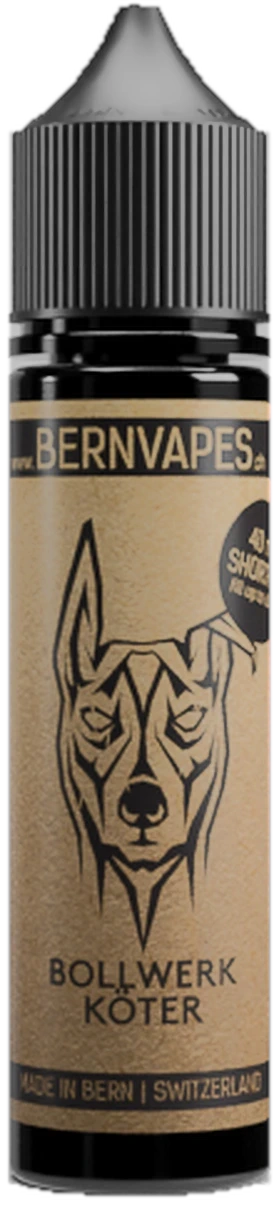
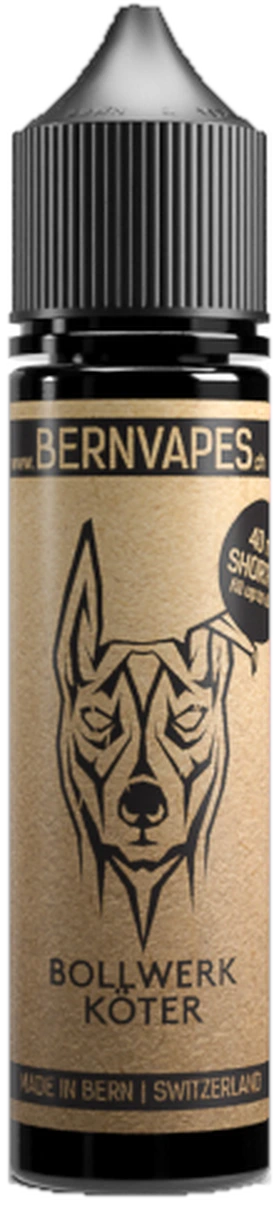
Flaschen: Original-Produktbilder (d6e7b87, ungematt) für alle 28; Quartier+Bärgtier weicher Schatten statt Matt-/Kontrastfilter, Schimmer aus; Cache-Buster ?v=20261027b

diff --git a/index.html b/index.html
@@ -110,7 +110,7 @@
       <p>Sibe Sorte, benannt nach Bärner Quartier. Vier dervo gits o on the rocks — schalt uf Winter. U nid hüle, wes chaut wird.</p>
     </div>
     <div class="beasts">
-      <figure class="beast grp bot" style="--i:0;left:9%;bottom:9%;--w:5.9%;--d:.8;--delay:0s" data-season="s"><div class="duo"><div class="bottle3" style="--mask:url('assets/web/produkte/monbijou_marder_60ml.webp');--bar:0.231"><img class="base" src="assets/web/produkte/monbijou_marder_60ml.webp" alt=""><i class="shine"></i></div></div><div class="ings"><img src="assets/web/ingredients/schokolade_orange.webp" alt=""></div><div class="plaque"><div class="flavor">Monbijou Marder</div><div class="who">Zartbitter · Orange · garantiert kalorieefrei</div></div></figure><figure class="beast grp bot" style="--i:1;left:36%;bottom:10%;--w:5.9%;--d:.8;--delay:-2s" data-season="s"><div class="duo"><div class="bottle3" style="--mask:url('assets/web/produkte/breitschplatz_hirsch_60ml.webp');--bar:0.231"><img class="base" src="assets/web/produkte/breitschplatz_hirsch_60ml.webp" alt=""><i class="shine"></i></div></div><div class="ings"><img src="assets/web/ingredients/apfel.webp" alt=""><img src="assets/web/ingredients/pistazie.webp" alt=""></div><div class="plaque"><div class="flavor">Breitsch Hirsch</div><div class="who">Öpfu · Pistache</div></div></figure><figure class="beast grp bot" style="--i:2;left:50%;bottom:6%;--w:6.3%;--d:1;--delay:-3s" data-season="s"><div class="duo"><div class="bottle3" style="--mask:url('assets/web/produkte/matte_eule_60ml.webp');--bar:0.231"><img class="base" src="assets/web/produkte/matte_eule_60ml.webp" alt=""><i class="shine"></i></div></div><div class="ings"><img src="assets/web/ingredients/ingwer.webp" alt=""><img src="assets/web/ingredients/mandarine.webp" alt=""></div><div class="plaque"><div class="flavor">Matte Eule</div><div class="who">Ingwer · Mandarine · Party</div></div></figure><figure class="beast grp bot" style="--i:3;left:64%;bottom:10%;--w:5.9%;--d:.8;--delay:-4s" data-season="s"><div class="duo"><div class="bottle3" style="--mask:url('assets/web/produkte/laengass_dachs_60ml.webp');--bar:0.231"><img class="base" src="assets/web/produkte/laengass_dachs_60ml.webp" alt=""><i class="shine"></i></div></div><div class="ings"><img src="assets/web/ingredients/saure_mango.webp" alt=""><img src="assets/web/ingredients/mango.webp" alt=""></div><div class="plaque"><div class="flavor">Länggass Dachs</div><div class="who">Suuri Mango · Holunder</div></div></figure><figure class="beast grp bot" style="--i:4;left:91%;bottom:9%;--w:5.9%;--d:.8;--delay:-6s" data-season="s"><div class="duo"><div class="bottle3" style="--mask:url('assets/web/produkte/wyler_falke_60ml.webp');--bar:0.231"><img class="base" src="assets/web/produkte/wyler_falke_60ml.webp" alt=""><i class="shine"></i></div></div><div class="ings"><img src="assets/web/ingredients/jasmin.webp" alt=""><img src="assets/web/ingredients/gruentee.webp" alt=""></div><div class="plaque"><div class="flavor">Wyler Falke</div><div class="who">Jasmin · Schwarztee · hate it or love it</div></div></figure><figure class="beast grp bot" style="--i:5;left:22.5%;bottom:6%;--w:6.3%;--d:1;--delay:-1s" data-season="s"><div class="duo"><div class="bottle3" style="--mask:url('assets/web/produkte/schanzen_kater_60ml.webp');--bar:0.231"><img class="base" src="assets/web/produkte/schanzen_kater_60ml.webp" alt=""><i class="shine"></i></div></div><div class="ings"><img src="assets/web/ingredients/kaffee.webp" alt=""><img src="assets/web/ingredients/amaretto.webp" alt=""></div><div class="plaque"><div class="flavor">Schanzen Kater</div><div class="who">Kaffi · Amaretto · fürs Morge drnah</div></div></figure><figure class="beast grp bot" style="--i:6;left:77.5%;bottom:6%;--w:6.3%;--d:1;--delay:-5s" data-season="s"><div class="duo"><div class="bottle3" style="--mask:url('assets/web/produkte/bollwerk_koeter_60ml.webp');--bar:0.231"><img class="base" src="assets/web/produkte/bollwerk_koeter_60ml.webp" alt=""><i class="shine"></i></div></div><div class="ings"><img src="assets/web/ingredients/tabak.webp" alt=""><img src="assets/web/ingredients/feige.webp" alt=""></div><div class="plaque"><div class="flavor">Bollwerk Köter</div><div class="who">Tubak · Fyge · für langi Nächt</div></div></figure><figure class="beast grp bot" style="--i:0;left:20%;bottom:6%;--w:7%;--d:1.1;--delay:0s" data-season="w"><div class="duo"><div class="bottle3" style="--mask:url('assets/web/produkte/breitschplatz_hirsch_otr_60ml.webp');--bar:0.231"><img class="base" src="assets/web/produkte/breitschplatz_hirsch_otr_60ml.webp" alt=""><i class="shine"></i></div></div><div class="ings"><img src="assets/web/ingredients/eis.webp" alt=""><img src="assets/web/ingredients/apfel.webp" alt=""></div><div class="plaque"><div class="flavor">Breitsch Hirsch · uf Ys</div><div class="who">Öpfu · Pistache · Koolada</div></div></figure><figure class="beast grp bot" style="--i:1;left:40%;bottom:6%;--w:7%;--d:1.1;--delay:-1.5s" data-season="w"><div class="duo"><div class="bottle3" style="--mask:url('assets/web/produkte/matte_eule_otr_60ml.webp');--bar:0.231"><img class="base" src="assets/web/produkte/matte_eule_otr_60ml.webp" alt=""><i class="shine"></i></div></div><div class="ings"><img src="assets/web/ingredients/eis.webp" alt=""><img src="assets/web/ingredients/mandarine.webp" alt=""></div><div class="plaque"><div class="flavor">Matte Eule · uf Ys</div><div class="who">Ingwer · Mandarine · Koolada</div></div></figure><figure class="beast grp bot" style="--i:2;left:60%;bottom:6%;--w:7%;--d:1.1;--delay:-3s" data-season="w"><div class="duo"><div class="bottle3" style="--mask:url('assets/web/produkte/laengass_dachs_otr_60ml.webp');--bar:0.231"><img class="base" src="assets/web/produkte/laengass_dachs_otr_60ml.webp" alt=""><i class="shine"></i></div></div><div class="ings"><img src="assets/web/ingredients/eis.webp" alt=""><img src="assets/web/ingredients/saure_mango.webp" alt=""></div><div class="plaque"><div class="flavor">Länggass Dachs · uf Ys</div><div class="who">Suuri Mango · Holunder · Koolada</div></div></figure><figure class="beast grp bot" style="--i:3;left:80%;bottom:6%;--w:7%;--d:1.1;--delay:-4.5s" data-season="w"><div class="duo"><div class="bottle3" style="--mask:url('assets/web/produkte/wyler_falke_otr_60ml.webp');--bar:0.231"><img class="base" src="assets/web/produkte/wyler_falke_otr_60ml.webp" alt=""><i class="shine"></i></div></div><div class="ings"><img src="assets/web/ingredients/eis.webp" alt=""><img src="assets/web/ingredients/jasmin.webp" alt=""></div><div class="plaque"><div class="flavor">Wyler Falke · uf Ys</div><div class="who">Jasmin · Schwarztee · Koolada</div></div></figure>
+      <figure class="beast grp bot" style="--i:0;left:9%;bottom:9%;--w:5.9%;--d:.8;--delay:0s" data-season="s"><div class="duo"><div class="bottle3" style="--mask:url('assets/web/produkte/monbijou_marder_60ml.webp?v=20261027b');--bar:0.231"><img class="base" src="assets/web/produkte/monbijou_marder_60ml.webp?v=20261027b" alt=""><i class="shine"></i></div></div><div class="ings"><img src="assets/web/ingredients/schokolade_orange.webp" alt=""></div><div class="plaque"><div class="flavor">Monbijou Marder</div><div class="who">Zartbitter · Orange · garantiert kalorieefrei</div></div></figure><figure class="beast grp bot" style="--i:1;left:36%;bottom:10%;--w:5.9%;--d:.8;--delay:-2s" data-season="s"><div class="duo"><div class="bottle3" style="--mask:url('assets/web/produkte/breitschplatz_hirsch_60ml.webp?v=20261027b');--bar:0.231"><img class="base" src="assets/web/produkte/breitschplatz_hirsch_60ml.webp?v=20261027b" alt=""><i class="shine"></i></div></div><div class="ings"><img src="assets/web/ingredients/apfel.webp" alt=""><img src="assets/web/ingredients/pistazie.webp" alt=""></div><div class="plaque"><div class="flavor">Breitsch Hirsch</div><div class="who">Öpfu · Pistache</div></div></figure><figure class="beast grp bot" style="--i:2;left:50%;bottom:6%;--w:6.3%;--d:1;--delay:-3s" data-season="s"><div class="duo"><div class="bottle3" style="--mask:url('assets/web/produkte/matte_eule_60ml.webp?v=20261027b');--bar:0.231"><img class="base" src="assets/web/produkte/matte_eule_60ml.webp?v=20261027b" alt=""><i class="shine"></i></div></div><div class="ings"><img src="assets/web/ingredients/ingwer.webp" alt=""><img src="assets/web/ingredients/mandarine.webp" alt=""></div><div class="plaque"><div class="flavor">Matte Eule</div><div class="who">Ingwer · Mandarine · Party</div></div></figure><figure class="beast grp bot" style="--i:3;left:64%;bottom:10%;--w:5.9%;--d:.8;--delay:-4s" data-season="s"><div class="duo"><div class="bottle3" style="--mask:url('assets/web/produkte/laengass_dachs_60ml.webp?v=20261027b');--bar:0.231"><img class="base" src="assets/web/produkte/laengass_dachs_60ml.webp?v=20261027b" alt=""><i class="shine"></i></div></div><div class="ings"><img src="assets/web/ingredients/saure_mango.webp" alt=""><img src="assets/web/ingredients/mango.webp" alt=""></div><div class="plaque"><div class="flavor">Länggass Dachs</div><div class="who">Suuri Mango · Holunder</div></div></figure><figure class="beast grp bot" style="--i:4;left:91%;bottom:9%;--w:5.9%;--d:.8;--delay:-6s" data-season="s"><div class="duo"><div class="bottle3" style="--mask:url('assets/web/produkte/wyler_falke_60ml.webp?v=20261027b');--bar:0.231"><img class="base" src="assets/web/produkte/wyler_falke_60ml.webp?v=20261027b" alt=""><i class="shine"></i></div></div><div class="ings"><img src="assets/web/ingredients/jasmin.webp" alt=""><img src="assets/web/ingredients/gruentee.webp" alt=""></div><div class="plaque"><div class="flavor">Wyler Falke</div><div class="who">Jasmin · Schwarztee · hate it or love it</div></div></figure><figure class="beast grp bot" style="--i:5;left:22.5%;bottom:6%;--w:6.3%;--d:1;--delay:-1s" data-season="s"><div class="duo"><div class="bottle3" style="--mask:url('assets/web/produkte/schanzen_kater_60ml.webp?v=20261027b');--bar:0.231"><img class="base" src="assets/web/produkte/schanzen_kater_60ml.webp?v=20261027b" alt=""><i class="shine"></i></div></div><div class="ings"><img src="assets/web/ingredients/kaffee.webp" alt=""><img src="assets/web/ingredients/amaretto.webp" alt=""></div><div class="plaque"><div class="flavor">Schanzen Kater</div><div class="who">Kaffi · Amaretto · fürs Morge drnah</div></div></figure><figure class="beast grp bot" style="--i:6;left:77.5%;bottom:6%;--w:6.3%;--d:1;--delay:-5s" data-season="s"><div class="duo"><div class="bottle3" style="--mask:url('assets/web/produkte/bollwerk_koeter_60ml.webp?v=20261027b');--bar:0.231"><img class="base" src="assets/web/produkte/bollwerk_koeter_60ml.webp?v=20261027b" alt=""><i class="shine"></i></div></div><div class="ings"><img src="assets/web/ingredients/tabak.webp" alt=""><img src="assets/web/ingredients/feige.webp" alt=""></div><div class="plaque"><div class="flavor">Bollwerk Köter</div><div class="who">Tubak · Fyge · für langi Nächt</div></div></figure><figure class="beast grp bot" style="--i:0;left:20%;bottom:6%;--w:7%;--d:1.1;--delay:0s" data-season="w"><div class="duo"><div class="bottle3" style="--mask:url('assets/web/produkte/breitschplatz_hirsch_otr_60ml.webp?v=20261027b');--bar:0.231"><img class="base" src="assets/web/produkte/breitschplatz_hirsch_otr_60ml.webp?v=20261027b" alt=""><i class="shine"></i></div></div><div class="ings"><img src="assets/web/ingredients/eis.webp" alt=""><img src="assets/web/ingredients/apfel.webp" alt=""></div><div class="plaque"><div class="flavor">Breitsch Hirsch · uf Ys</div><div class="who">Öpfu · Pistache · Koolada</div></div></figure><figure class="beast grp bot" style="--i:1;left:40%;bottom:6%;--w:7%;--d:1.1;--delay:-1.5s" data-season="w"><div class="duo"><div class="bottle3" style="--mask:url('assets/web/produkte/matte_eule_otr_60ml.webp?v=20261027b');--bar:0.231"><img class="base" src="assets/web/produkte/matte_eule_otr_60ml.webp?v=20261027b" alt=""><i class="shine"></i></div></div><div class="ings"><img src="assets/web/ingredients/eis.webp" alt=""><img src="assets/web/ingredients/mandarine.webp" alt=""></div><div class="plaque"><div class="flavor">Matte Eule · uf Ys</div><div class="who">Ingwer · Mandarine · Koolada</div></div></figure><figure class="beast grp bot" style="--i:2;left:60%;bottom:6%;--w:7%;--d:1.1;--delay:-3s" data-season="w"><div class="duo"><div class="bottle3" style="--mask:url('assets/web/produkte/laengass_dachs_otr_60ml.webp?v=20261027b');--bar:0.231"><img class="base" src="assets/web/produkte/laengass_dachs_otr_60ml.webp?v=20261027b" alt=""><i class="shine"></i></div></div><div class="ings"><img src="assets/web/ingredients/eis.webp" alt=""><img src="assets/web/ingredients/saure_mango.webp" alt=""></div><div class="plaque"><div class="flavor">Länggass Dachs · uf Ys</div><div class="who">Suuri Mango · Holunder · Koolada</div></div></figure><figure class="beast grp bot" style="--i:3;left:80%;bottom:6%;--w:7%;--d:1.1;--delay:-4.5s" data-season="w"><div class="duo"><div class="bottle3" style="--mask:url('assets/web/produkte/wyler_falke_otr_60ml.webp?v=20261027b');--bar:0.231"><img class="base" src="assets/web/produkte/wyler_falke_otr_60ml.webp?v=20261027b" alt=""><i class="shine"></i></div></div><div class="ings"><img src="assets/web/ingredients/eis.webp" alt=""><img src="assets/web/ingredients/jasmin.webp" alt=""></div><div class="plaque"><div class="flavor">Wyler Falke · uf Ys</div><div class="who">Jasmin · Schwarztee · Koolada</div></div></figure>
     </div>
     <button class="toggle" type="button" aria-pressed="false"><span>Summer</span><i></i><b>On the rocks</b></button>
   </div>
@@ -135,7 +135,7 @@
       <p>100 ml, Schwyzer Zuetate, nün Tier am Bärg. Je höcher, desto wiuder. Drü dervo chaut wie dr Gipfu säuber — schalt uf Winter.</p>
     </div>
     <div class="beasts">
-      <figure data-key="gipfel_adler_otr_100ml" class="beast grp bot" style="--i:0;--w:4.4%;--d:0.95;--delay:0s" data-ix="34" data-iy="58" data-season="w"><div class="duo"><div class="bottle3" style="--mask:url('assets/web/produkte/gipfel_adler_otr_100ml.webp');--bar:0.325"><img class="base" src="assets/web/produkte/gipfel_adler_otr_100ml.webp" alt=""><i class="shine"></i></div></div><div class="ings"><img src="assets/web/ingredients/eis.webp" alt=""><img src="assets/web/ingredients/lemongras.webp" alt=""></div><div class="plaque"><div class="flavor">Gipfel Adler · uf Ys</div><div class="who">Zitronegras · Gingerale · Koolada</div></div></figure><figure data-key="nebel_wolf_otr_100ml" class="beast grp bot" style="--i:2;--w:4.2%;--d:0.95;--delay:-1.5s" data-ix="52" data-iy="50" data-season="w"><div class="duo"><div class="bottle3" style="--mask:url('assets/web/produkte/nebel_wolf_otr_100ml.webp');--bar:0.325"><img class="base" src="assets/web/produkte/nebel_wolf_otr_100ml.webp" alt=""><i class="shine"></i></div></div><div class="ings"><img src="assets/web/ingredients/eis.webp" alt=""><img src="assets/web/ingredients/traube_apfelmus.webp" alt=""></div><div class="plaque"><div class="flavor">Nebel Wolf · uf Ys</div><div class="who">Öpfumues · Truube · Koolada</div></div></figure><figure data-key="steinschlag_bock_otr_100ml" class="beast grp bot" style="--i:1;--w:4.4%;--d:0.95;--delay:-3s" data-ix="72" data-iy="58" data-season="w"><div class="duo"><div class="bottle3" style="--mask:url('assets/web/produkte/steinschlag_bock_otr_100ml.webp');--bar:0.325"><img class="base" src="assets/web/produkte/steinschlag_bock_otr_100ml.webp" alt=""><i class="shine"></i></div></div><div class="ings"><img src="assets/web/ingredients/eis.webp" alt=""><img src="assets/web/ingredients/aprikosentee.webp" alt=""></div><div class="plaque"><div class="flavor">Steinschlag Bock · uf Ys</div><div class="who">Aprikosetee · Citrusblüete · Koolada</div></div></figure><figure data-key="gipfel_adler_100ml" data-season="s" class="beast grp bot quiet" style="--i:6;--w:3.3%;--d:0.82;--delay:-2.4000000000000004s" data-ix="36" data-iy="36"><div class="duo"><div class="bottle3" style="--mask:url('assets/web/produkte/gipfel_adler_100ml.webp');--bar:0.325"><img class="base" src="assets/web/produkte/gipfel_adler_100ml.webp" alt=""><i class="shine"></i></div></div><div class="ings"><img src="assets/web/ingredients/gingerale.webp" alt=""><img src="assets/web/ingredients/lemongras.webp" alt=""></div><div class="plaque"><div class="flavor">Gipfel Adler</div><div class="who">Gingerale · Zitronegras</div></div></figure><figure data-key="nebel_wolf_100ml" data-season="s" class="beast grp bot quiet" style="--i:8;--w:3.1%;--d:0.81;--delay:-3.2s" data-ix="50" data-iy="30"><div class="duo"><div class="bottle3" style="--mask:url('assets/web/produkte/nebel_wolf_100ml.webp');--bar:0.325"><img class="base" src="assets/web/produkte/nebel_wolf_100ml.webp" alt=""><i class="shine"></i></div></div><div class="ings"><img src="assets/web/ingredients/traube_apfelmus.webp" alt=""><img src="assets/web/ingredients/edelweiss.webp" alt=""></div><div class="plaque"><div class="flavor">Nebel Wolf</div><div class="who">Öpfumues · Truube · Edelwyss</div></div></figure><figure data-key="steinschlag_bock_100ml" data-season="s" class="beast grp bot quiet" style="--i:7;--w:3.3%;--d:0.82;--delay:-4.0s" data-ix="64" data-iy="36"><div class="duo"><div class="bottle3" style="--mask:url('assets/web/produkte/steinschlag_bock_100ml.webp');--bar:0.325"><img class="base" src="assets/web/produkte/steinschlag_bock_100ml.webp" alt=""><i class="shine"></i></div></div><div class="ings"><img src="assets/web/ingredients/aprikosentee.webp" alt=""><img src="assets/web/ingredients/citrusbluete.webp" alt=""></div><div class="plaque"><div class="flavor">Steinschlag Bock</div><div class="who">Aprikosetee · Citrusblüete</div></div></figure><figure data-key="waldwiesen_biene_100ml" data-season="s" class="beast grp bot quiet" style="--i:5;--w:3.9%;--d:0.92;--delay:-4.800000000000001s" data-ix="29" data-iy="55"><div class="duo"><div class="bottle3" style="--mask:url('assets/web/produkte/waldwiesen_biene_100ml.webp');--bar:0.325"><img class="base" src="assets/web/produkte/waldwiesen_biene_100ml.webp" alt=""><i class="shine"></i></div></div><div class="ings"><img src="assets/web/ingredients/honig_melisse.webp" alt=""><img src="assets/web/ingredients/honigglas.webp" alt=""></div><div class="plaque"><div class="flavor">Waldwiesen Biene</div><div class="who">Honig · Melisse</div></div></figure><figure data-key="wildwasser_bieber_100ml" data-season="s" class="beast grp bot" style="--i:4;--w:3.9%;--d:0.95;--delay:-5.6000000000000005s" data-ix="50" data-iy="58"><div class="duo"><div class="bottle3" style="--mask:url('assets/web/produkte/wildwasser_bieber_100ml.webp');--bar:0.325"><img class="base" src="assets/web/produkte/wildwasser_bieber_100ml.webp" alt=""><i class="shine"></i></div></div><div class="ings"><img src="assets/web/ingredients/caramel.webp" alt=""></div><div class="plaque"><div class="flavor">Wildwasser Biber</div><div class="who">Caramelchöpfli — wie bi dr Grosi</div></div></figure><figure data-key="absturz_milan_100ml" data-season="s" class="beast grp bot" style="--i:3;--w:3.9%;--d:0.96;--delay:-6.4s" data-ix="72" data-iy="55"><div class="duo"><div class="bottle3" style="--mask:url('assets/web/produkte/absturz_milan_100ml.webp');--bar:0.325"><img class="base" src="assets/web/produkte/absturz_milan_100ml.webp" alt=""><i class="shine"></i></div></div><div class="ings"><img src="assets/web/ingredients/alpenkraeuter.webp" alt=""></div><div class="plaque"><div class="flavor">Absturz Milan</div><div class="who">Aupechrütertee</div></div></figure><figure data-key="waldbrand_salamander_100ml" data-season="s" class="beast grp bot" style="--i:1;--w:4.6%;--d:1.07;--delay:-8.0s" data-ix="36" data-iy="77"><div class="duo"><div class="bottle3" style="--mask:url('assets/web/produkte/waldbrand_salamander_100ml.webp');--bar:0.325"><img class="base" src="assets/web/produkte/waldbrand_salamander_100ml.webp" alt=""><i class="shine"></i></div></div><div class="ings"><img src="assets/web/ingredients/ananas.webp" alt=""><img src="assets/web/ingredients/hibiskus.webp" alt=""><img src="assets/web/ingredients/zitrone.webp" alt=""></div><div class="plaque"><div class="flavor">Waldbrand Salamander</div><div class="who">Ananas · Hibiskus · Zitrone</div></div></figure><figure data-key="abgrund_gemse_100ml" data-season="s" class="beast grp bot" style="--i:0;--w:4.6%;--d:1.08;--delay:-8.8s" data-ix="56" data-iy="80"><div class="duo"><div class="bottle3" style="--mask:url('assets/web/produkte/abgrund_gemse_100ml.webp');--bar:0.325"><img class="base" src="assets/web/produkte/abgrund_gemse_100ml.webp" alt=""><i class="shine"></i></div></div><div class="ings"><img src="assets/web/ingredients/himbeere.webp" alt=""><img src="assets/web/ingredients/mascarpone.webp" alt=""></div><div class="plaque"><div class="flavor">Abgrund Gemse</div><div class="who">Himbeeri · Mascarpone</div></div></figure><figure data-key="erdbeben_elch_100ml" data-season="s" class="beast grp bot" style="--i:2;--w:4.6%;--d:1.06;--delay:-9.600000000000001s" data-ix="77" data-iy="76"><div class="duo"><div class="bottle3" style="--mask:url('assets/web/produkte/erdbeben_elch_100ml.webp');--bar:0.325"><img class="base" src="assets/web/produkte/erdbeben_elch_100ml.webp" alt=""><i class="shine"></i></div></div><div class="ings"><img src="assets/web/ingredients/erdbeere.webp" alt=""><img src="assets/web/ingredients/cheesecake.webp" alt=""></div><div class="plaque"><div class="flavor">Erdbeben Elch</div><div class="who">Erdbeer-Cheesecake</div></div></figure>
+      <figure data-key="gipfel_adler_otr_100ml" class="beast grp bot" style="--i:0;--w:4.4%;--d:0.95;--delay:0s" data-ix="34" data-iy="58" data-season="w"><div class="duo"><div class="bottle3" style="--mask:url('assets/web/produkte/gipfel_adler_otr_100ml.webp?v=20261027b');--bar:0.325"><img class="base" src="assets/web/produkte/gipfel_adler_otr_100ml.webp?v=20261027b" alt=""><i class="shine"></i></div></div><div class="ings"><img src="assets/web/ingredients/eis.webp" alt=""><img src="assets/web/ingredients/lemongras.webp" alt=""></div><div class="plaque"><div class="flavor">Gipfel Adler · uf Ys</div><div class="who">Zitronegras · Gingerale · Koolada</div></div></figure><figure data-key="nebel_wolf_otr_100ml" class="beast grp bot" style="--i:2;--w:4.2%;--d:0.95;--delay:-1.5s" data-ix="52" data-iy="50" data-season="w"><div class="duo"><div class="bottle3" style="--mask:url('assets/web/produkte/nebel_wolf_otr_100ml.webp?v=20261027b');--bar:0.325"><img class="base" src="assets/web/produkte/nebel_wolf_otr_100ml.webp?v=20261027b" alt=""><i class="shine"></i></div></div><div class="ings"><img src="assets/web/ingredients/eis.webp" alt=""><img src="assets/web/ingredients/traube_apfelmus.webp" alt=""></div><div class="plaque"><div class="flavor">Nebel Wolf · uf Ys</div><div class="who">Öpfumues · Truube · Koolada</div></div></figure><figure data-key="steinschlag_bock_otr_100ml" class="beast grp bot" style="--i:1;--w:4.4%;--d:0.95;--delay:-3s" data-ix="72" data-iy="58" data-season="w"><div class="duo"><div class="bottle3" style="--mask:url('assets/web/produkte/steinschlag_bock_otr_100ml.webp?v=20261027b');--bar:0.325"><img class="base" src="assets/web/produkte/steinschlag_bock_otr_100ml.webp?v=20261027b" alt=""><i class="shine"></i></div></div><div class="ings"><img src="assets/web/ingredients/eis.webp" alt=""><img src="assets/web/ingredients/aprikosentee.webp" alt=""></div><div class="plaque"><div class="flavor">Steinschlag Bock · uf Ys</div><div class="who">Aprikosetee · Citrusblüete · Koolada</div></div></figure><figure data-key="gipfel_adler_100ml" data-season="s" class="beast grp bot quiet" style="--i:6;--w:3.3%;--d:0.82;--delay:-2.4000000000000004s" data-ix="36" data-iy="36"><div class="duo"><div class="bottle3" style="--mask:url('assets/web/produkte/gipfel_adler_100ml.webp?v=20261027b');--bar:0.325"><img class="base" src="assets/web/produkte/gipfel_adler_100ml.webp?v=20261027b" alt=""><i class="shine"></i></div></div><div class="ings"><img src="assets/web/ingredients/gingerale.webp" alt=""><img src="assets/web/ingredients/lemongras.webp" alt=""></div><div class="plaque"><div class="flavor">Gipfel Adler</div><div class="who">Gingerale · Zitronegras</div></div></figure><figure data-key="nebel_wolf_100ml" data-season="s" class="beast grp bot quiet" style="--i:8;--w:3.1%;--d:0.81;--delay:-3.2s" data-ix="50" data-iy="30"><div class="duo"><div class="bottle3" style="--mask:url('assets/web/produkte/nebel_wolf_100ml.webp?v=20261027b');--bar:0.325"><img class="base" src="assets/web/produkte/nebel_wolf_100ml.webp?v=20261027b" alt=""><i class="shine"></i></div></div><div class="ings"><img src="assets/web/ingredients/traube_apfelmus.webp" alt=""><img src="assets/web/ingredients/edelweiss.webp" alt=""></div><div class="plaque"><div class="flavor">Nebel Wolf</div><div class="who">Öpfumues · Truube · Edelwyss</div></div></figure><figure data-key="steinschlag_bock_100ml" data-season="s" class="beast grp bot quiet" style="--i:7;--w:3.3%;--d:0.82;--delay:-4.0s" data-ix="64" data-iy="36"><div class="duo"><div class="bottle3" style="--mask:url('assets/web/produkte/steinschlag_bock_100ml.webp?v=20261027b');--bar:0.325"><img class="base" src="assets/web/produkte/steinschlag_bock_100ml.webp?v=20261027b" alt=""><i class="shine"></i></div></div><div class="ings"><img src="assets/web/ingredients/aprikosentee.webp" alt=""><img src="assets/web/ingredients/citrusbluete.webp" alt=""></div><div class="plaque"><div class="flavor">Steinschlag Bock</div><div class="who">Aprikosetee · Citrusblüete</div></div></figure><figure data-key="waldwiesen_biene_100ml" data-season="s" class="beast grp bot quiet" style="--i:5;--w:3.9%;--d:0.92;--delay:-4.800000000000001s" data-ix="29" data-iy="55"><div class="duo"><div class="bottle3" style="--mask:url('assets/web/produkte/waldwiesen_biene_100ml.webp?v=20261027b');--bar:0.325"><img class="base" src="assets/web/produkte/waldwiesen_biene_100ml.webp?v=20261027b" alt=""><i class="shine"></i></div></div><div class="ings"><img src="assets/web/ingredients/honig_melisse.webp" alt=""><img src="assets/web/ingredients/honigglas.webp" alt=""></div><div class="plaque"><div class="flavor">Waldwiesen Biene</div><div class="who">Honig · Melisse</div></div></figure><figure data-key="wildwasser_bieber_100ml" data-season="s" class="beast grp bot" style="--i:4;--w:3.9%;--d:0.95;--delay:-5.6000000000000005s" data-ix="50" data-iy="58"><div class="duo"><div class="bottle3" style="--mask:url('assets/web/produkte/wildwasser_bieber_100ml.webp?v=20261027b');--bar:0.325"><img class="base" src="assets/web/produkte/wildwasser_bieber_100ml.webp?v=20261027b" alt=""><i class="shine"></i></div></div><div class="ings"><img src="assets/web/ingredients/caramel.webp" alt=""></div><div class="plaque"><div class="flavor">Wildwasser Biber</div><div class="who">Caramelchöpfli — wie bi dr Grosi</div></div></figure><figure data-key="absturz_milan_100ml" data-season="s" class="beast grp bot" style="--i:3;--w:3.9%;--d:0.96;--delay:-6.4s" data-ix="72" data-iy="55"><div class="duo"><div class="bottle3" style="--mask:url('assets/web/produkte/absturz_milan_100ml.webp?v=20261027b');--bar:0.325"><img class="base" src="assets/web/produkte/absturz_milan_100ml.webp?v=20261027b" alt=""><i class="shine"></i></div></div><div class="ings"><img src="assets/web/ingredients/alpenkraeuter.webp" alt=""></div><div class="plaque"><div class="flavor">Absturz Milan</div><div class="who">Aupechrütertee</div></div></figure><figure data-key="waldbrand_salamander_100ml" data-season="s" class="beast grp bot" style="--i:1;--w:4.6%;--d:1.07;--delay:-8.0s" data-ix="36" data-iy="77"><div class="duo"><div class="bottle3" style="--mask:url('assets/web/produkte/waldbrand_salamander_100ml.webp?v=20261027b');--bar:0.325"><img class="base" src="assets/web/produkte/waldbrand_salamander_100ml.webp?v=20261027b" alt=""><i class="shine"></i></div></div><div class="ings"><img src="assets/web/ingredients/ananas.webp" alt=""><img src="assets/web/ingredients/hibiskus.webp" alt=""><img src="assets/web/ingredients/zitrone.webp" alt=""></div><div class="plaque"><div class="flavor">Waldbrand Salamander</div><div class="who">Ananas · Hibiskus · Zitrone</div></div></figure><figure data-key="abgrund_gemse_100ml" data-season="s" class="beast grp bot" style="--i:0;--w:4.6%;--d:1.08;--delay:-8.8s" data-ix="56" data-iy="80"><div class="duo"><div class="bottle3" style="--mask:url('assets/web/produkte/abgrund_gemse_100ml.webp?v=20261027b');--bar:0.325"><img class="base" src="assets/web/produkte/abgrund_gemse_100ml.webp?v=20261027b" alt=""><i class="shine"></i></div></div><div class="ings"><img src="assets/web/ingredients/himbeere.webp" alt=""><img src="assets/web/ingredients/mascarpone.webp" alt=""></div><div class="plaque"><div class="flavor">Abgrund Gemse</div><div class="who">Himbeeri · Mascarpone</div></div></figure><figure data-key="erdbeben_elch_100ml" data-season="s" class="beast grp bot" style="--i:2;--w:4.6%;--d:1.06;--delay:-9.600000000000001s" data-ix="77" data-iy="76"><div class="duo"><div class="bottle3" style="--mask:url('assets/web/produkte/erdbeben_elch_100ml.webp?v=20261027b');--bar:0.325"><img class="base" src="assets/web/produkte/erdbeben_elch_100ml.webp?v=20261027b" alt=""><i class="shine"></i></div></div><div class="ings"><img src="assets/web/ingredients/erdbeere.webp" alt=""><img src="assets/web/ingredients/cheesecake.webp" alt=""></div><div class="plaque"><div class="flavor">Erdbeben Elch</div><div class="who">Erdbeer-Cheesecake</div></div></figure>
     </div>
     <ol class="legend" aria-label="Sorten">
       <div class="s"><li data-for="gipfel_adler_100ml"><b>Gipfel Adler</b><span>Gingerale · Zitronegras</span></li><li data-for="nebel_wolf_100ml"><b>Nebel Wolf</b><span>Öpfumues · Truube · Edelwyss</span></li><li data-for="steinschlag_bock_100ml"><b>Steinschlag Bock</b><span>Aprikosetee · Citrusblüete</span></li><li data-for="waldwiesen_biene_100ml"><b>Waldwiesen Biene</b><span>Honig · Melisse</span></li><li data-for="wildwasser_bieber_100ml"><b>Wildwasser Biber</b><span>Caramelchöpfli — wie bi dr Grosi</span></li><li data-for="absturz_milan_100ml"><b>Absturz Milan</b><span>Aupechrütertee</span></li><li data-for="waldbrand_salamander_100ml"><b>Waldbrand Salamander</b><span>Ananas · Hibiskus · Zitrone</span></li><li data-for="abgrund_gemse_100ml"><b>Abgrund Gemse</b><span>Himbeeri · Mascarpone</span></li><li data-for="erdbeben_elch_100ml"><b>Erdbeben Elch</b><span>Erdbeer-Cheesecake</span></li></div>

diff --git a/assets/css/site.css b/assets/css/site.css
@@ -388,8 +388,8 @@ svg.lifts circle{fill:rgba(23,19,15,.6);stroke:var(--bv-gold);stroke-width:1.2}
 #hero .beast.playing .art img.still{opacity:1}
 
 /* ===== Quartiere: Flaschen sauber – Originalbild ohne Filter, ohne Schimmer-Overlay ===== */
-#quartiere .beast.grp.bot .bottle3 img.base{filter:none}
-#quartiere .beast.grp.bot .bottle3 .shine{display:none}
+#quartiere .beast.grp.bot .bottle3 img.base,#bergtiere .beast.grp.bot .bottle3 img.base{filter:drop-shadow(0 14px 14px rgba(0,0,0,.45))}   /* Original-Flasche, nur weicher Schatten – kein Matt-/Kontrast-Filter */
+#quartiere .beast.grp.bot .bottle3 .shine,#bergtiere .beast.grp.bot .bottle3 .shine{display:none}
 #quartiere .beast.grp.bot.quiet{filter:none}
 
 /* ===== Dampflok "Grat-Fahrer" (Hero): Low-Poly-Zug fährt auf dem Bergkamm =====
